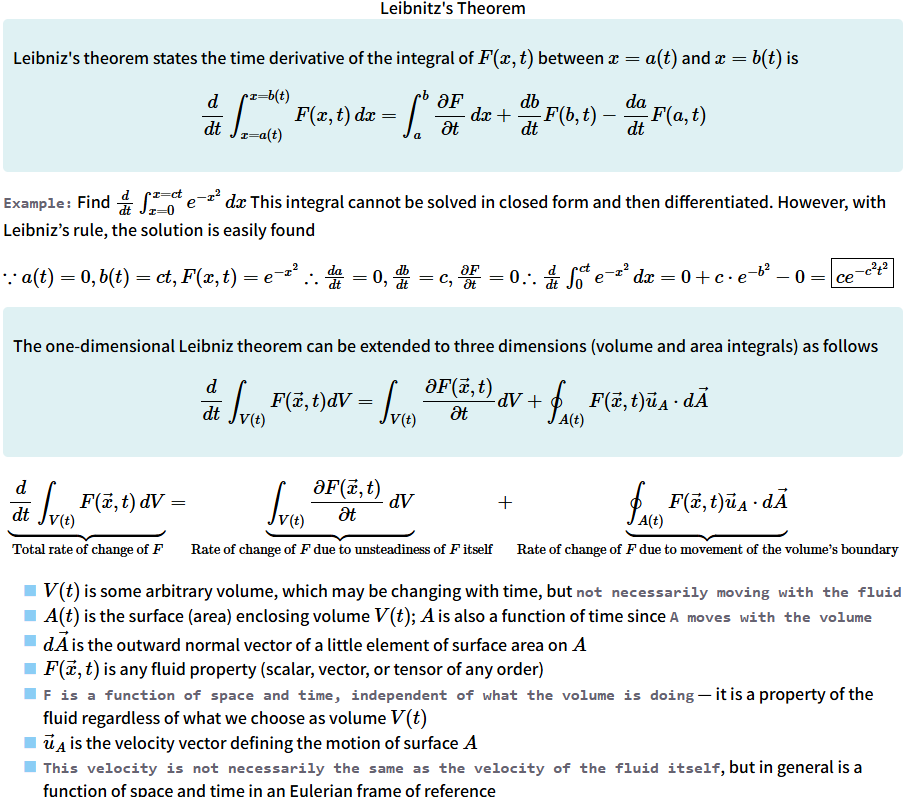
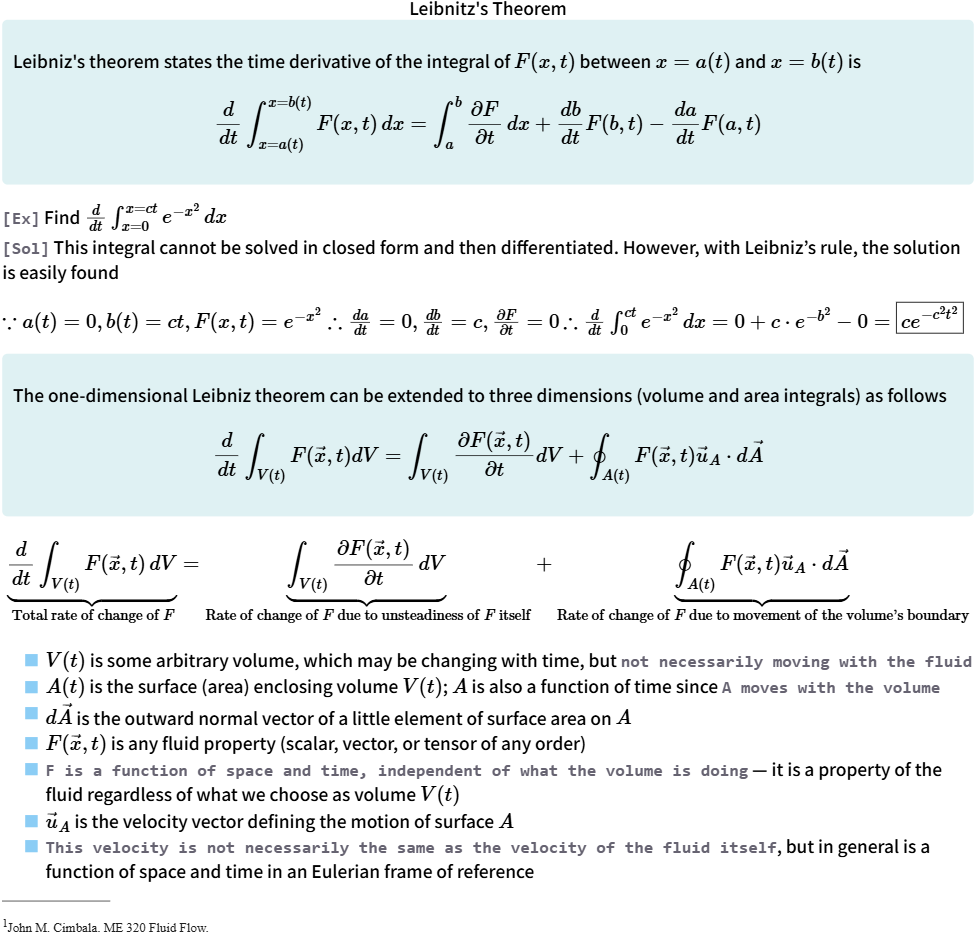
Update

Changed region(s): [[0.0, 0.3011, 1.0, 1.0], [0.0, 0.0301, 1.0, 0.3011], [0.4018, 0.0, 0.5872, 0.0301]]

diff --git a/Lecture1ASlide39.html b/Lecture1ASlide39.html
@@ -88,18 +88,17 @@ window.addEventListener('resize', scaleContainer);
 
         <div class="description">
             <p>Leibniz's theorem states the time derivative of the integral of \( F(x,t) \) between \( x = a(t) \) and \( x = b(t) \) is
-
                 \[
                 \frac{d}{dt} \int_{x = a(t)}^{x = b(t)} F(x,t)\, dx = \int_{a}^{b} \frac{\partial F}{\partial t} \, dx + \frac{db}{dt} F(b,t) - \frac{da}{dt} F(a,t)
                 \]
             </p>
         </div>
 
-        <p><span class="sql">Example:</span> Find  
+        <p><span class="sql">[Ex]</span> Find  
             \(
             \frac{d}{dt} \int_{x=0}^{x=ct} e^{-x^2} \, dx
-            \)
-            This integral cannot be solved in closed form and then differentiated. However, with Leibniz’s rule, the solution is easily found</p>
+            \)<br>
+            <span class="sql">[Sol]</span> This integral cannot be solved in closed form and then differentiated. However, with Leibniz’s rule, the solution is easily found</p>
 
         <p>
             \(
